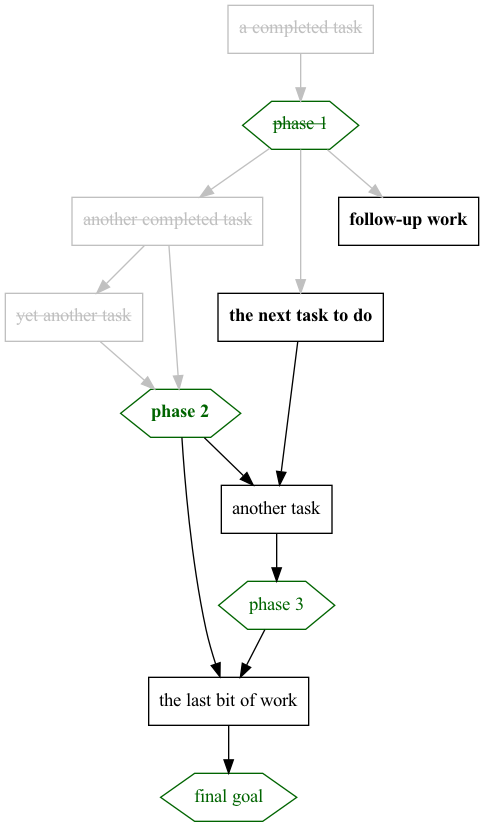
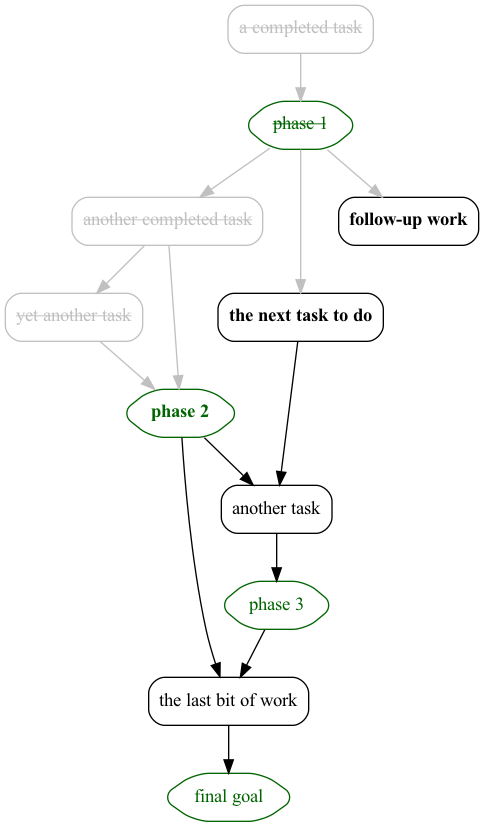
Make shapes rounded

diff --git a/asana_deps_graph.py b/asana_deps_graph.py
@@ -55,7 +55,7 @@ def get_tasks(project_id: str, pat: str) -> Iterator[Task]:
 
 
 def _render_node(task: Task, all_tasks: dict[str, Task]) -> str:
-    attrs: dict[str, str] = {}
+    attrs: dict[str, str] = {'style': 'rounded'}
 
     is_blocked = not all(
         all_tasks[blocker].is_completed for blocker in task.blocked_by
